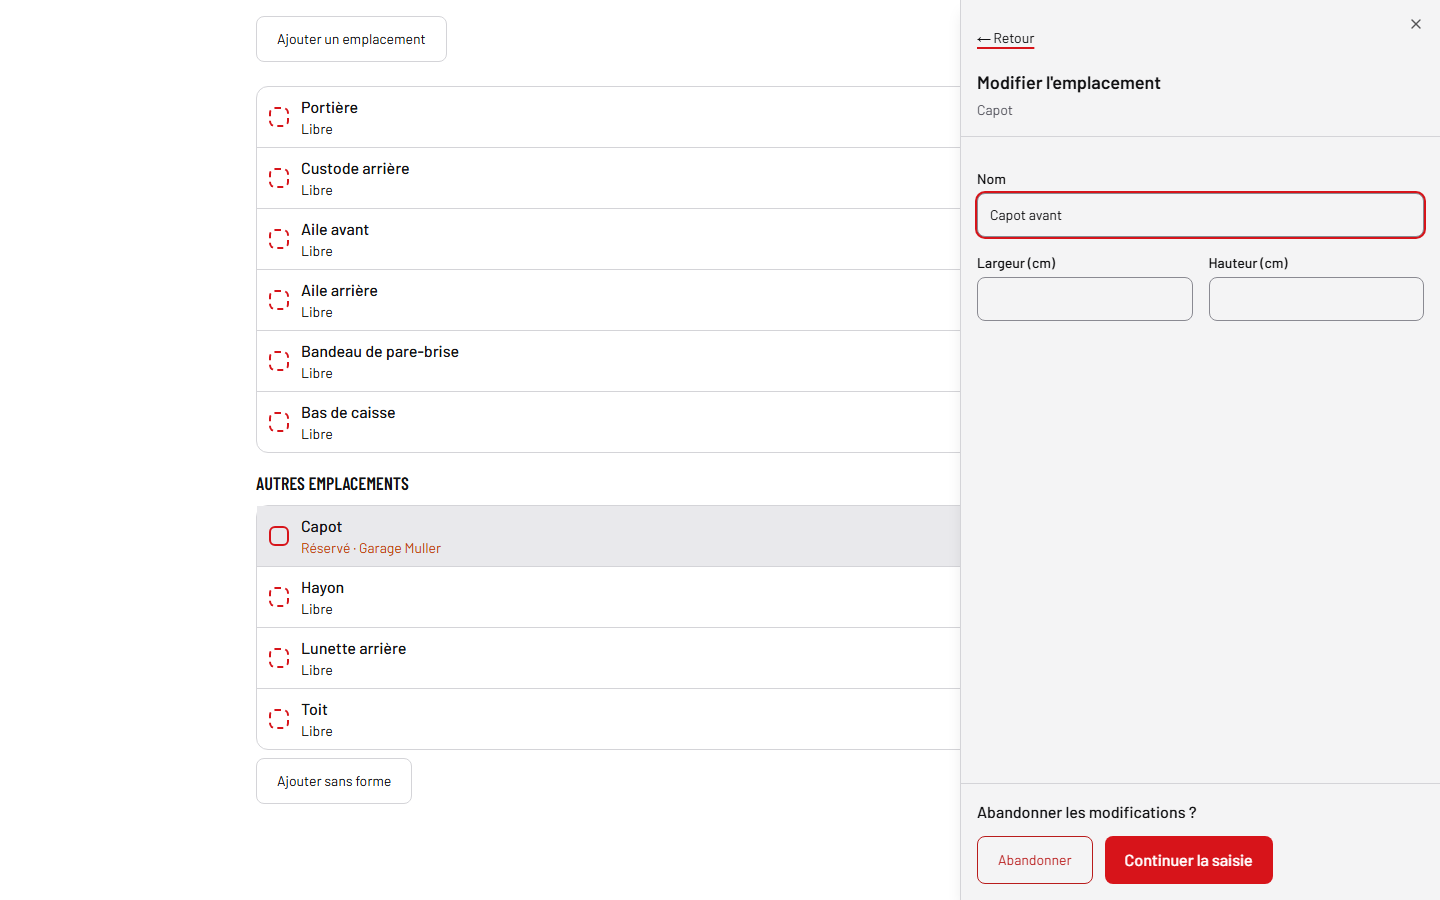
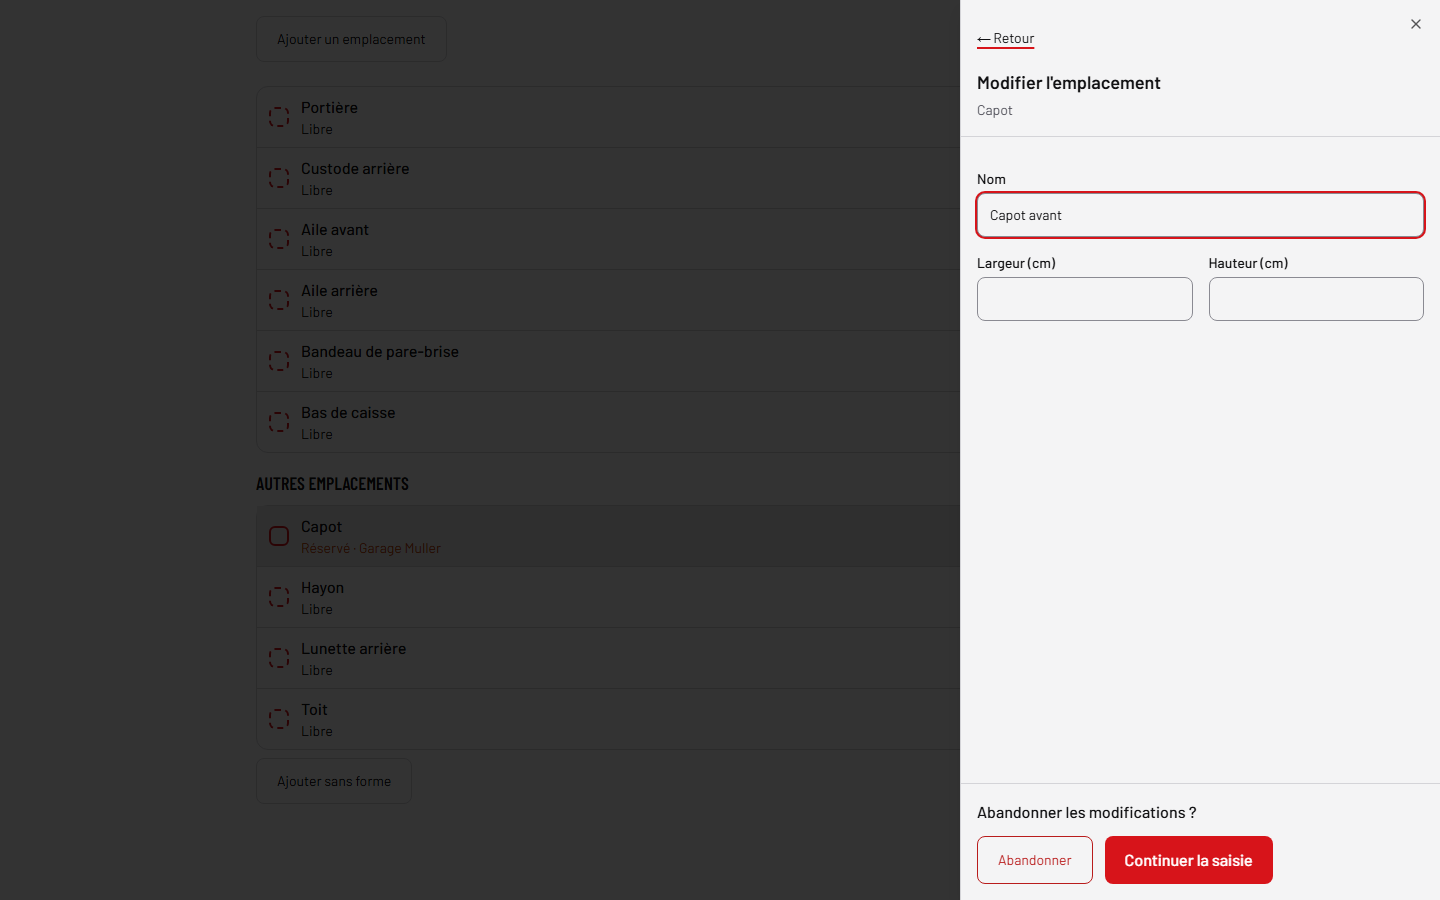
Brief 3.13 phase A : tiroirs modaux sur ordinateur, déplacement verrouillé
Retouche demandée avant le test de John. Sur ordinateur, les tiroirs de la Déco
sont modaux comme sur téléphone : fond, page inerte, focus gardé. Seule exception,
l'étape « Déplacer ou redimensionner » reste non modale : la liste et les autres
emplacements sont inertes, un clic sur un autre emplacement ne fait rien. Specs
Déco adaptés (fermer avant de choisir, test du verrouillage).

diff --git a/e2e/voiture-deco.spec.ts b/e2e/voiture-deco.spec.ts
@@ -66,6 +66,15 @@ const ligneHorsPlan = (page: Page, nom: string) => listeHorsPlan(page).locator("
 const forme = (page: Page, nom: string) => page.locator(`svg rect[aria-label^="${nom}"], svg polygon[aria-label^="${nom}"]`).first()
 const formesDuPlan = (page: Page) => page.locator('svg [role="button"]')
 
+// Sur ordinateur, la fiche et les étapes sont modales : la page est inerte tant que le tiroir est ouvert. Échap ramène
+// d'une étape à la fiche, et ferme la fiche.
+async function fermerTiroir(page: Page): Promise<void> {
+  for (let i = 0; i < 3 && (await page.getByRole("dialog").count()) > 0; i++) {
+    await page.keyboard.press("Escape")
+  }
+  await expect(page.getByRole("dialog")).toHaveCount(0)
+}
+
 // Le fichier se choisit dans le champ caché de la page (setInputFiles marche même caché).
 async function joindreFichier(page: Page, chemin: string): Promise<void> {
   await page.locator('input[type="file"]').setInputFiles(chemin)
@@ -124,6 +133,7 @@ test("responsable : plan, réservation, pose, indisponibilité, déplacement, aj
   await capturer(page, "voiture-deco-pose-1440.png")
 
   // 4. Indisponible : « Toit » (hors plan) devient indisponible, puis revient.
+  await fermerTiroir(page)
   await ligneHorsPlan(page, "Toit").click()
   await page.getByRole("button", { name: "Rendre indisponible" }).click()
   await expect(ligneHorsPlan(page, "Toit").getByText("Indisponible")).toBeVisible()
@@ -132,9 +142,13 @@ test("responsable : plan, réservation, pose, indisponibilité, déplacement, aj
 
   // 5. Déplacer au clavier : « Aile arrière », X de +10 dans le champ, puis enregistrer. Après rechargement, la forme a
   // la nouvelle position à droite, et à gauche (miroir : 370 − x − largeur).
+  await fermerTiroir(page)
   await ligne(page, "Aile arrière").click()
   const xAvant = Number(await forme(page, "Aile arrière").getAttribute("x"))
   await page.getByRole("button", { name: "Déplacer ou redimensionner" }).click()
+  // Pendant « Déplacer », un autre emplacement ne se choisit pas : la liste est inerte, la fiche reste la même.
+  await ligne(page, "Portière").click({ force: true })
+  await expect(page.getByRole("dialog", { name: "Déplacer ou redimensionner", exact: true })).toContainText("Aile arrière")
   await page.getByLabel("X", { exact: true }).fill(String(Math.round((xAvant + 10) * 10) / 10))
   await page.getByRole("button", { name: "Enregistrer la position" }).click()
   await expect(page.getByRole("button", { name: "Déplacer ou redimensionner" })).toBeVisible()
@@ -145,6 +159,7 @@ test("responsable : plan, réservation, pose, indisponibilité, déplacement, aj
   await page.getByRole("button", { name: "Côté droit" }).click()
 
   // 6. Déplacer au pointeur : « Aile avant » glissée de 20 px. Capture du mode déplacement avant d'enregistrer.
+  await fermerTiroir(page)
   await ligne(page, "Aile avant").click()
   const xAvantPointeur = Number(await forme(page, "Aile avant").getAttribute("x"))
   await page.getByRole("button", { name: "Déplacer ou redimensionner" }).click()
@@ -161,6 +176,7 @@ test("responsable : plan, réservation, pose, indisponibilité, déplacement, aj
   await expect.poll(async () => Number(await forme(page, "Aile avant").getAttribute("x"))).toBeGreaterThan(xAvantPointeur + 3)
 
   // 7. Ajouter, renommer, supprimer : « Nouvel emplacement », « Lunette latérale », puis la suppression sur la page.
+  await fermerTiroir(page)
   await page.getByRole("button", { name: "Ajouter un emplacement" }).click()
   await expect(page.getByRole("heading", { name: "Nouvel emplacement" })).toBeVisible()
   await page.getByRole("button", { name: "Modifier l'emplacement", exact: true }).click()

diff --git a/src/apps/voiture/composants/deco-panneau.tsx b/src/apps/voiture/composants/deco-panneau.tsx
@@ -3,7 +3,8 @@
 // Tiroir de l'emplacement choisi (brief 3.4, brief 3.13 phase A). Le tiroir montre la fiche de l'emplacement, puis ses
 // actions. Une action qui demande une saisie ouvre une étape du même tiroir : « ← Retour » revient à la fiche. Chaque
 // étape est un formulaire vers une Server Action de actions.ts. Sur téléphone le tiroir monte du bas ; sur ordinateur il
-// glisse depuis la droite, et le plan reste utilisable à côté. Sous le niveau écriture, la fiche reste en lecture seule.
+// glisse depuis la droite. Modal partout (la page est inerte) : la seule exception est l'étape « Déplacer ou
+// redimensionner », non modale, parce qu'elle agit sur le plan. Sous le niveau écriture, la fiche reste en lecture seule.
 // Les actions sans saisie (rendre indisponible) restent des boutons de la fiche.
 
 import { useActionState, useState, type ReactNode } from "react"
@@ -44,7 +45,7 @@ interface TiroirEmplacementProps {
   bornes: Bornes
   // L'étape ouverte ; null pour la fiche.
   etape: EtapeEmplacement | null
-  // Sur ordinateur, le tiroir est non modal : le plan reste cliquable (un autre emplacement se choisit sur le plan).
+  // Sur ordinateur, le tiroir glisse depuis la droite ; sur téléphone il monte du bas (seule la hauteur change).
   ordinateur: boolean
   // Mode « Déplacer ou redimensionner » : la forme en cours d'édition, et ses changements.
   brouillon: FormeEmplacement | null
@@ -59,7 +60,8 @@ function dateLisible(jour: string | null): string | null {
 
 export function TiroirEmplacement(props: TiroirEmplacementProps) {
   const { emplacement, etape, ordinateur, brouillon, bornes, onEtape, onChangerBrouillon, onFermer, partenaires } = props
-  const modal = !ordinateur
+  // Modal partout, sauf pour l'étape « position » (plus bas).
+  const modal = true
   const occupation = emplacement.occupation
 
   const fiche = (
@@ -126,7 +128,8 @@ export function TiroirEmplacement(props: TiroirEmplacementProps) {
         />
       )
     case "position":
-      // Non modal sur tous les écrans : le glissement sur le plan doit rester possible.
+      // Non modal sur tous les écrans : le glissement sur le plan doit rester possible. Le reste de la page est inerte
+      // (voir DecoPlan), et un clic sur un autre emplacement ne fait rien.
       return emplacement.forme && brouillon ? (
         <EtapePosition
           emplacement={emplacement}

diff --git a/src/apps/voiture/composants/deco-plan.tsx b/src/apps/voiture/composants/deco-plan.tsx
@@ -81,8 +81,12 @@ function DecoInteractif({ ficheId, nomVehicule, gabarit, emplacements, peutEcrir
   )
   // Le glissement sur le plan ne vaut que pour l'étape « position », côté droit, sur une forme.
   const enDeplacementVisible = etape === "position" && visible !== null && vue === "droite" && visible.forme !== null
+  // Pendant « Déplacer ou redimensionner », seul le logo en cours bouge : le reste de la page (côtés, ajout, liste) est inerte.
+  const inerte = etape === "position" ? true : undefined
 
+  // Pendant « Déplacer ou redimensionner », un autre emplacement ne se choisit pas : on sort par Enregistrer ou Annuler.
   function choisir(id: string) {
+    if (etape === "position") return
     setChoisi(id)
     setEtape(null)
     setBrouillon(null)
@@ -117,7 +121,7 @@ function DecoInteractif({ ficheId, nomVehicule, gabarit, emplacements, peutEcrir
   return (
     <div className="flex flex-col gap-6">
       {aCote && (
-        <div role="group" aria-label="Côté du véhicule" className="inline-flex w-fit overflow-hidden rounded-md border border-bordure">
+        <div role="group" aria-label="Côté du véhicule" inert={inerte} className="inline-flex w-fit overflow-hidden rounded-md border border-bordure">
           {(["droite", "gauche"] as const).map((cote) => (
             <button
               key={cote}
@@ -145,12 +149,14 @@ function DecoInteractif({ ficheId, nomVehicule, gabarit, emplacements, peutEcrir
           />
           <p className="text-sm text-texte-discret">{libelleComptes(comptes)}</p>
           {peutEcrire && (
-            <AjouterEmplacement ficheId={ficheId} vue="droite" forme={formeAuCentre(bornes)} libelle="Ajouter un emplacement" onAjoute={ajoute} />
+            <div inert={inerte}>
+              <AjouterEmplacement ficheId={ficheId} vue="droite" forme={formeAuCentre(bornes)} libelle="Ajouter un emplacement" onAjoute={ajoute} />
+            </div>
           )}
         </>
       )}
 
-      <section aria-labelledby="liste-emplacements" className="flex flex-col gap-4">
+      <section aria-labelledby="liste-emplacements" inert={inerte} className="flex flex-col gap-4">
         <h2 id="liste-emplacements" className="sr-only">
           Emplacements
         </h2>
